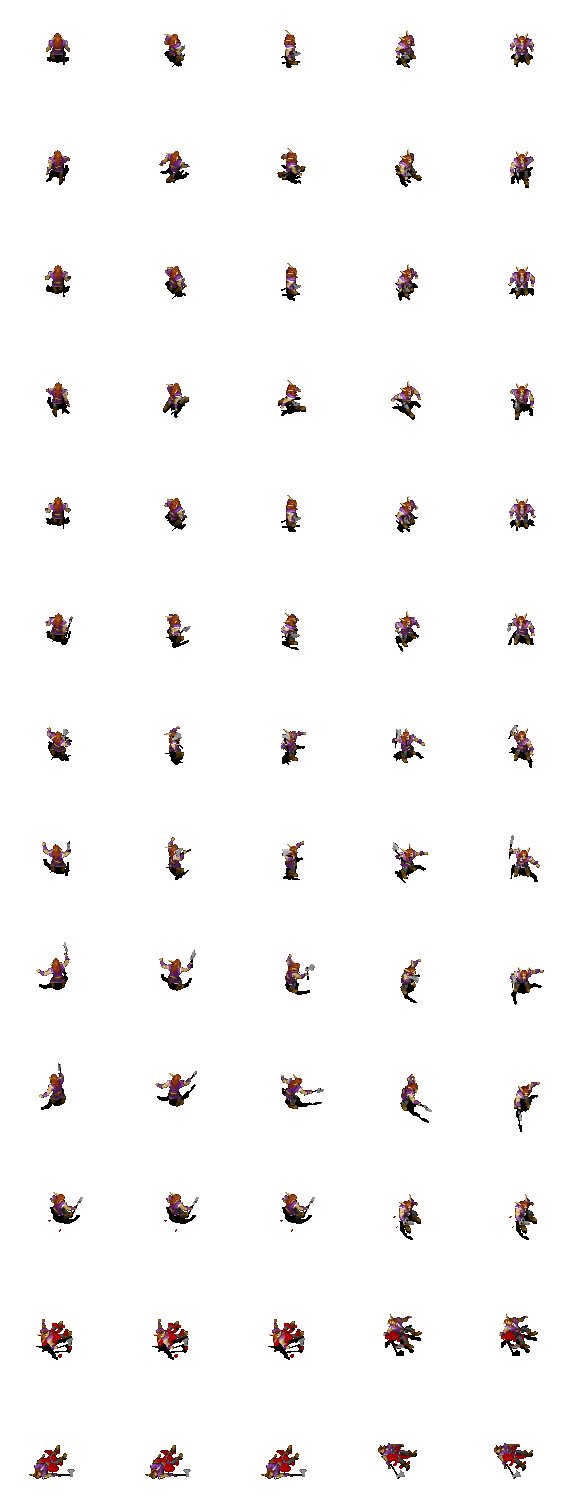
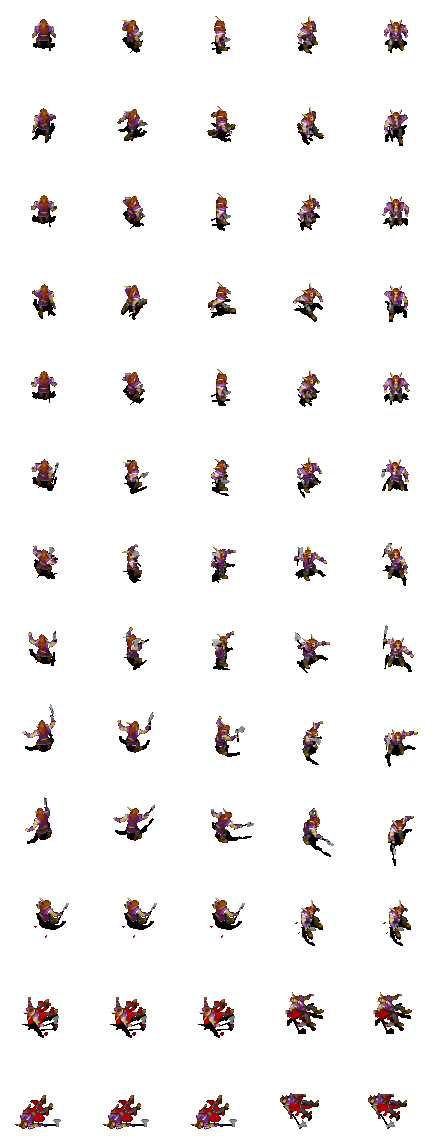
Cropped Elven Worker frames to remove unnecessary empty space

diff --git a/interface/Main.qml b/interface/Main.qml
@@ -35,6 +35,8 @@ Window {
 				component.createObject(window)
 				
 				wyrmgus.call_lua_command("SetVideoSize(" + Screen.width + ", " + Screen.height + ");")
+				
+				//wyrmgus.crop_image_frames("C:/Wyrmsun/graphics/units/elven/worker.png", Qt.size(116, 116), Qt.size(72, 72))
 			}
 		}
 	}
